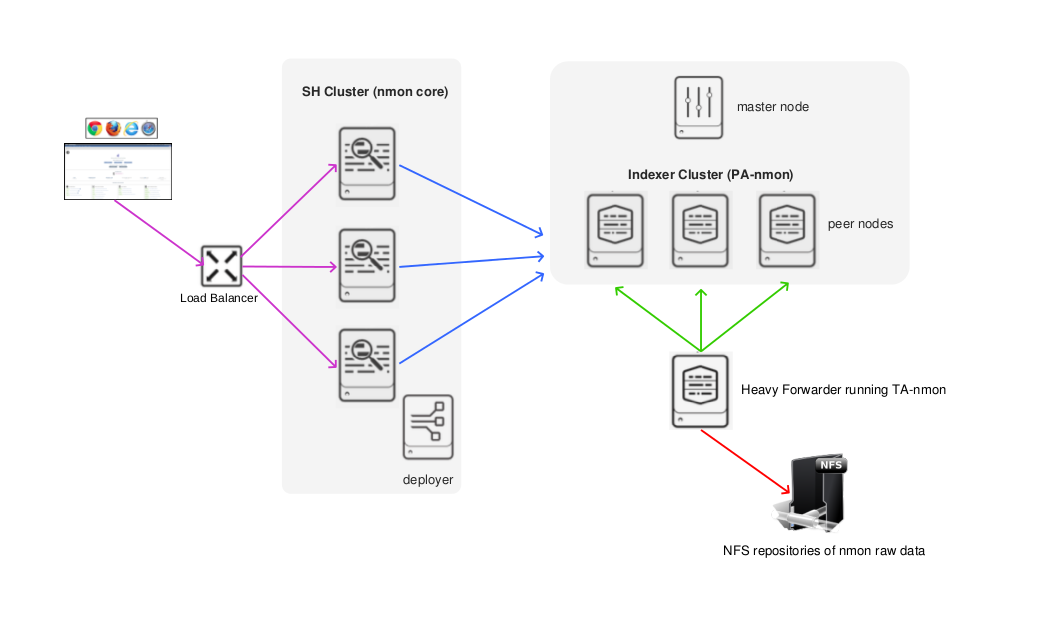
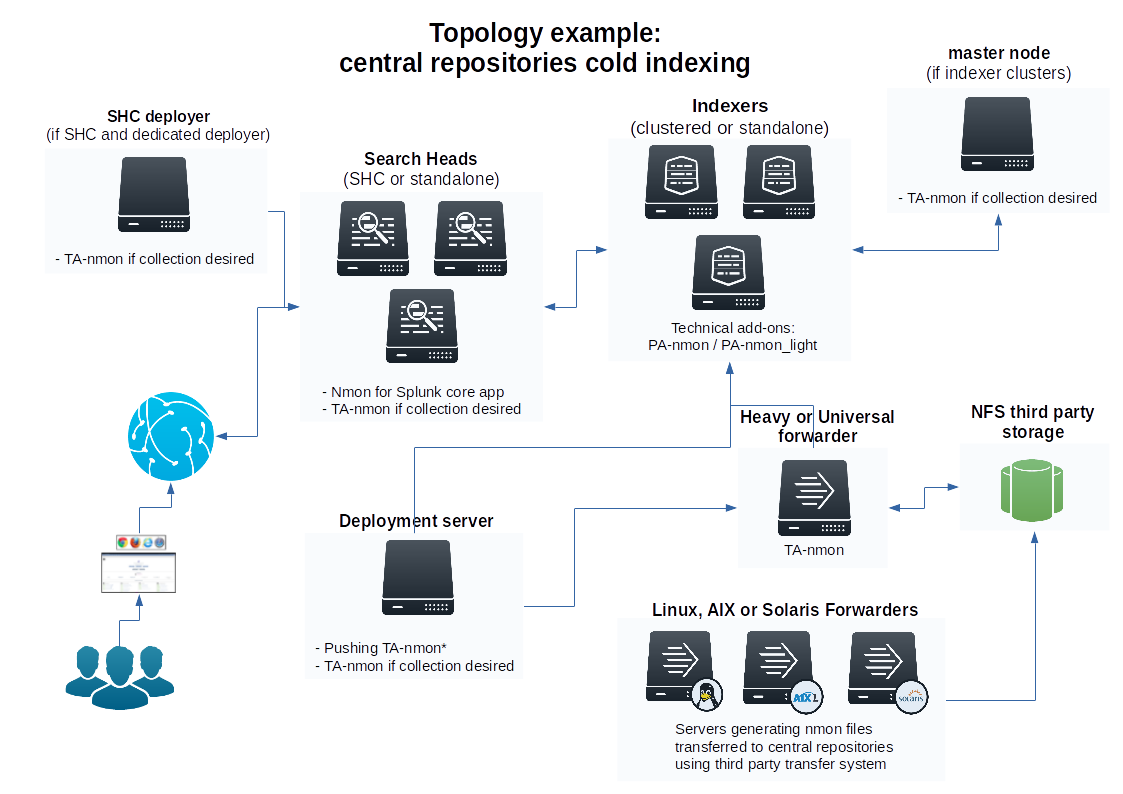
new topo

diff --git a/docs/topologies.rst b/docs/topologies.rst
@@ -30,7 +30,7 @@ This is an example of deployment for standard scenario with multiple *nix client
 
 **Cold data deployment scenario:**
 
-This is an example of deployment for standard scenario with a single Heavy Forwarder Splunk instance running the addon "TA-nmon", indexing Nmon data from central NFS repositories into a Splunk indexer cluser running the addon "PA-nmon", exploiting Nmon data in a Search Head cluster running the core "nmon" application
+This is an example of deployment for standard scenario with a single Splunk forwarder instance (Universal or Heay) running the addon "TA-nmon", indexing Nmon data from central NFS repositories into a Splunk indexer cluser running the addon "PA-nmon", exploiting Nmon data in a Search Head cluster running the core "nmon" application
 
 .. image:: img/topology3_colddata_example.png
    :alt: topology3_colddata_example.png
